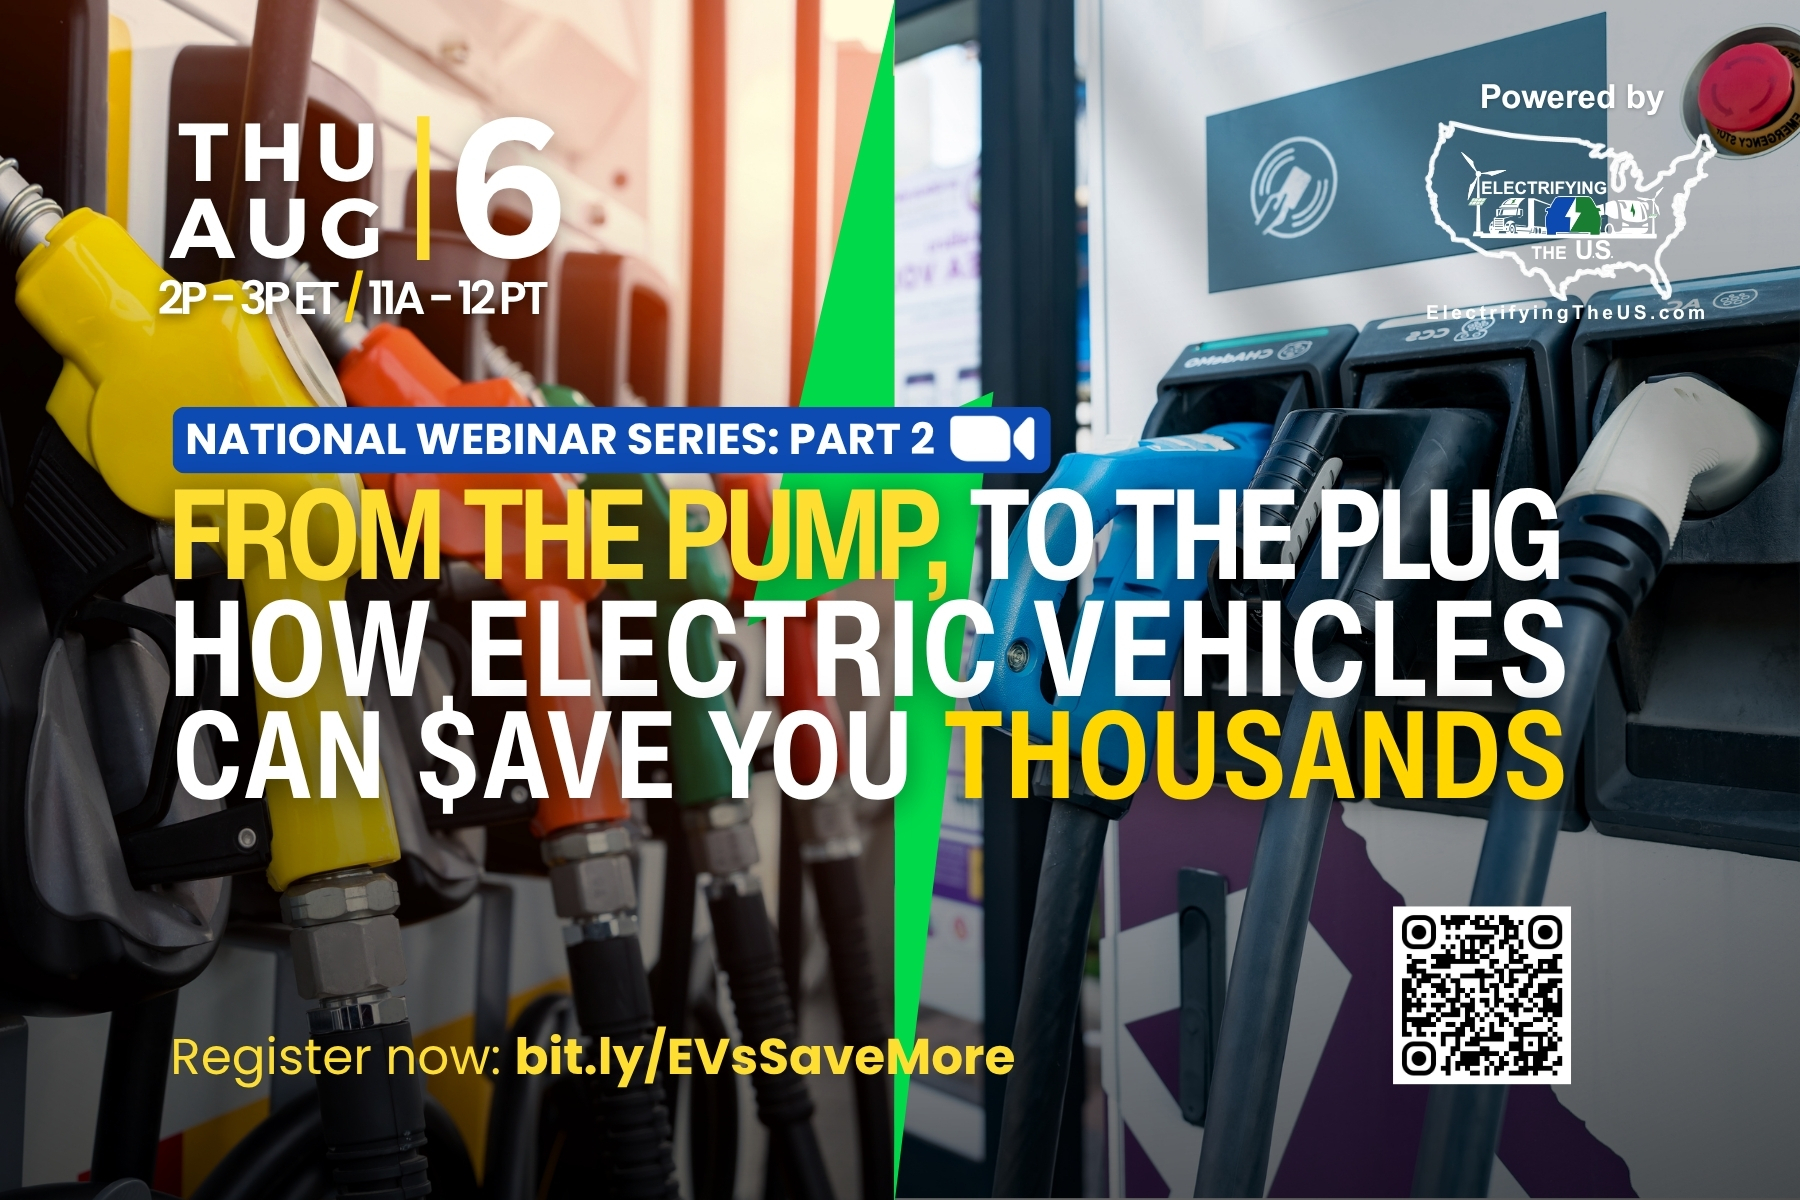
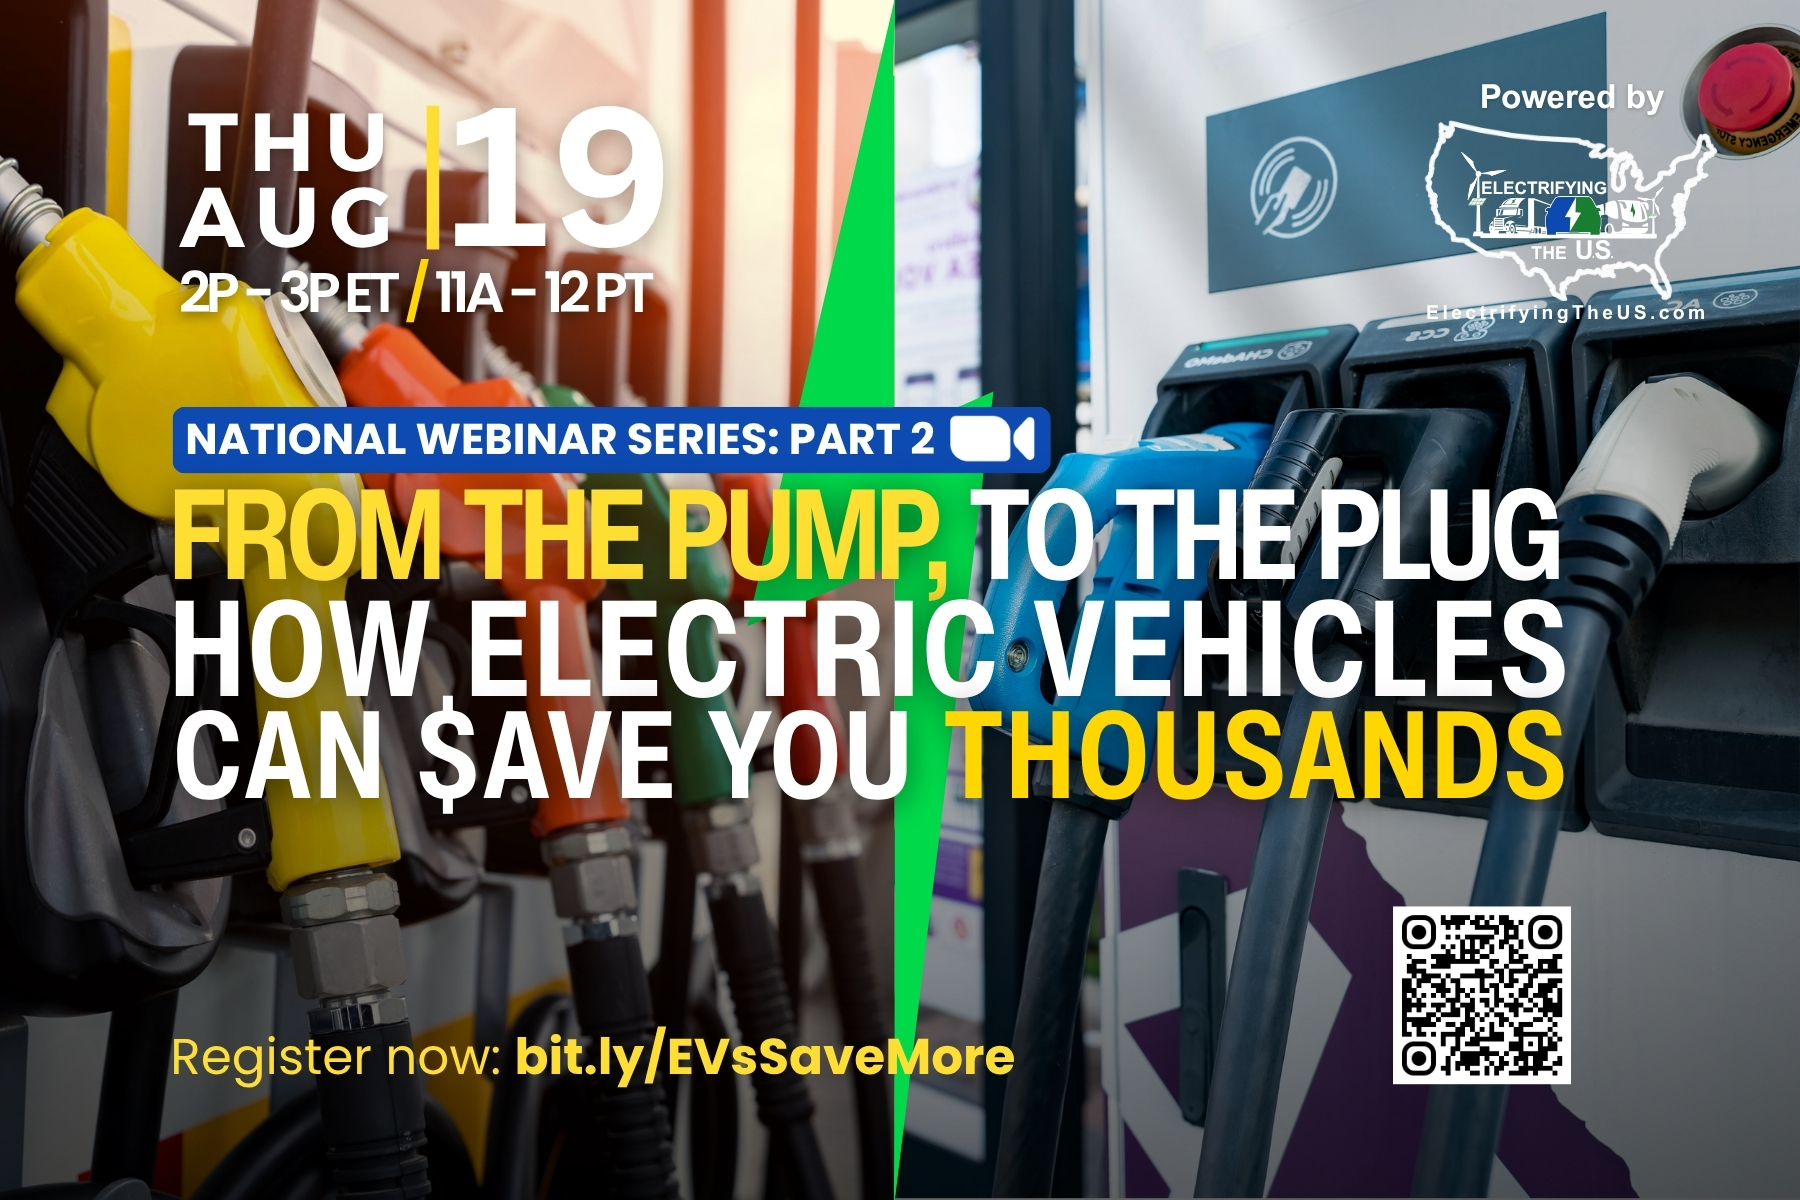
feat(events): move "From Pump to Plug" Part 2 to Aug 19
Swap in the updated webinar flyer (hero slide 2 + event page) and move
the event date from Aug 6 to Aug 19, confirmed against the Zoom
registration ("Aug 20, 2026 02:00 Beijing" = Aug 19, 2:00 PM ET).

Aug 19, 2026 is a Wednesday, so drop the hardcoded "Thursday," on the
event page in favour of eventFullDate(), which derives the weekday from
the date and can't drift out of sync again.

Note: the supplied artwork reads "THU AUG 19" — the weekday on the flyer
is wrong and should be corrected to WED (or the date moved to Aug 20).

Changed region(s): [[0.0933, 0.0925, 0.3733, 0.2775]]

diff --git a/src/pages/EventFromPumpToPlug.tsx b/src/pages/EventFromPumpToPlug.tsx
@@ -8,7 +8,7 @@ import Footer from "@/components/Footer";
 import ShareGate from "@/components/forms/ShareGate";
 import EventActionGate from "@/components/forms/EventActionGate";
 import WebinarRegisterForm from "@/components/forms/WebinarRegisterForm";
-import { EVENTS, gcalLink } from "@/data/events";
+import { EVENTS, eventFullDate, gcalLink } from "@/data/events";
 import flyer from "@/assets/event-pump-to-plug.jpg";
 
 const SLUG = "from-pump-to-plug";
@@ -100,7 +100,7 @@ const EventFromPumpToPlug = () => {
               </h1>
 
               <div className="flex flex-col gap-2 text-foreground mb-5">
-                <span className="flex items-center gap-2.5"><CalendarDays className="w-5 h-5 text-primary shrink-0" /> Thursday, {event.month} {event.day}, {event.year}</span>
+                <span className="flex items-center gap-2.5"><CalendarDays className="w-5 h-5 text-primary shrink-0" /> {eventFullDate(event)}</span>
                 <span className="flex items-center gap-2.5"><Clock className="w-5 h-5 text-primary shrink-0" /> {event.time}</span>
                 <span className="flex items-center gap-2.5"><MapPin className="w-5 h-5 text-primary shrink-0" /> {event.location}</span>
               </div>

diff --git a/src/data/events.ts b/src/data/events.ts
@@ -59,8 +59,8 @@ export const isActive = (e: EventItem): boolean => isUpcoming(e) || !!e.ours;
 /** Sort comparator: soonest first. */
 export const byDateAsc = (a: EventItem, b: EventItem) => eventDate(a).getTime() - eventDate(b).getTime();
 
-/** "Thursday, AUG 6, 2026" — long weekday + the stored MON/day/year (matches the
- *  event detail page). */
+/** "Wednesday, AUG 19, 2026" — long weekday + the stored MON/day/year (matches
+ *  the event detail page). */
 export const eventFullDate = (e: EventItem): string => {
   let weekday = "";
   try { weekday = eventDate(e).toLocaleDateString("en-US", { weekday: "long" }); } catch { /* keep blank */ }
@@ -238,7 +238,7 @@ export const EVENTS: EventItem[] = [
     registerUrl: "https://demodaysfestival.com/products/los-angeles",
   },
   {
-    month: "AUG", day: "6", year: 2026,
+    month: "AUG", day: "19", year: 2026,
     title: "Part 2: From The Pump To The Plug - How Electric Vehicles Can Save You Thousands",
     type: "Webinar",
     location: "Online · Live Webinar",

diff --git a/src/components/HeroSection.tsx b/src/components/HeroSection.tsx
@@ -86,7 +86,7 @@ const HeroSection = () => {
                 <div className="absolute inset-0 bg-black/30" />
                 <img
                   src={pumpToPlugFlyer}
-                  alt="Part 2: From The Pump To The Plug — How Electric Vehicles Can Save You Thousands — webinar, Thursday August 6, 2–3 PM ET"
+                  alt="Part 2: From The Pump To The Plug — How Electric Vehicles Can Save You Thousands — webinar, Wednesday August 19, 2–3 PM ET"
                   className="absolute inset-0 w-full h-full object-contain"
                   loading="lazy"
                 />
